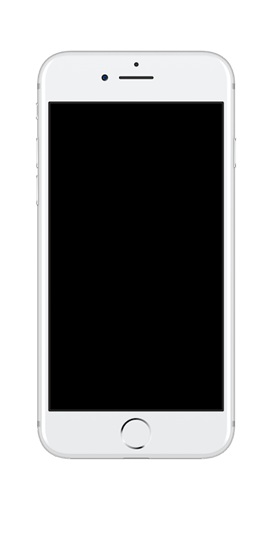
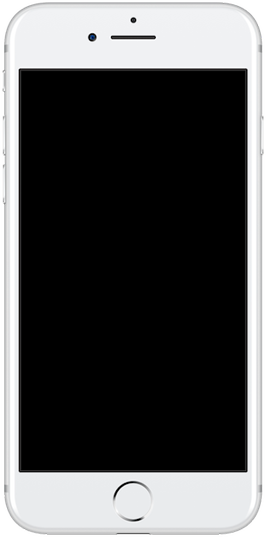
Revert "up"
This reverts commit 1ffa5e468382742b943eb5ce7e934f2bcec038a8.

diff --git a/estilo/style.css b/estilo/style.css
@@ -10,11 +10,7 @@ main {
     height: 100vh;
     width: 100vw;
 }
- img.erick {
-    
-    display: block;
-    margin: auto;
-}
+
 
 body,html {
  background-color: rgb(54, 54, 240); 
@@ -33,10 +29,10 @@ body,html {
 }
 iframe#tela{
     position: relative;
-    top: 100px;
-    left: 46px;
-    width: 177px;
-    height: 315px;
+    top: 62px;
+    left: 16px;
+    width: 232px;
+    height: 415px;
     border: 1px solid rgba(0, 0, 0, 0.164);
 }
 #rede-social {

diff --git a/index.html b/index.html
@@ -10,7 +10,6 @@
 
 
 <body>
-    <img src="imagens/erick.png" alt="" class="erick">
     <section id="telefone">
        <iframe src="tela-home.html" frameborder="0" name="tela" id="tela">Seu navegador não é compativel com isso</iframe>
     </section>